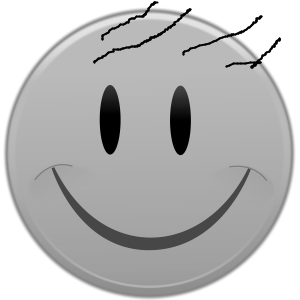
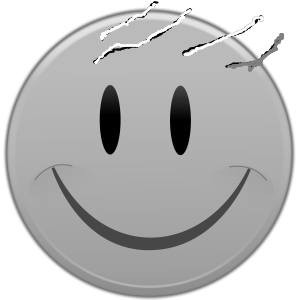
added another version of Malik-Perona method

diff --git a/scripts/restr_methods/Perona_Malik.py b/scripts/restr_methods/Perona_Malik.py
@@ -1,5 +1,7 @@
 import numpy as np
 from scipy import ndimage
+
+
 def Perona_Malik(im, dd, delta, kappa):
     windows = [
         np.array([[0, 1, 0],
@@ -27,19 +29,46 @@ def Perona_Malik(im, dd, delta, kappa):
                   [0, -1, 0],
                   [0, 0, 0]])]
 
-    # approximate gradients
     nab = [ndimage.filters.convolve(im, w) for w in windows]
-
-    # approximate diffusion function
-    diff = [1 / (1 + (n / kappa) ** 2) for n in nab]
-
-    # update image
-    terms = [diff[i] * nab[i] for i in range(4)]
-    terms += [(1 / (dd ** 2)) * diff[i] * nab[i] for i in range(4, 8)]
-    im = im + delta * (sum(terms))
+    gpm1 = [1 / (1 + (n / kappa) ** 2) for n in nab]
+    res = [gpm1[i] * nab[i] for i in range(8)]
+    im = im + delta * (sum(res))
 
     return im
 
+def Perona_Malik_2(im, dd, delta, kappa):
+    windows = [
+        np.array([[0, 1, 0],
+                  [0, -1, 0],
+                  [0, 0, 0]]),
+        np.array([[0, 0, 0],
+                  [0, -1, 0],
+                  [0, 1, 0]]),
+        np.array([[0, 0, 0],
+                  [0, -1, 1],
+                  [0, 0, 0]]),
+        np.array([[0, 0, 0],
+                  [1, -1, 0],
+                  [0, 0, 0]]),
+        np.array([[0, 0, 1],
+                  [0, -1, 0],
+                  [0, 0, 0]]),
+        np.array([[0, 0, 0],
+                  [0, -1, 0],
+                  [0, 0, 1]]),
+        np.array([[0, 0, 0],
+                  [0, -1, 0],
+                  [1, 0, 0]]),
+        np.array([[1, 0, 0],
+                  [0, -1, 0],
+                  [0, 0, 0]])]
+
+    nab = [ndimage.filters.convolve(im, w) for w in windows]
+    gpm2 = [np.exp(-(n/kappa)**2) for n in nab]
+    res = [gpm2[i] * nab[i] for i in range(8)]
+    im = im + delta*(sum(res))
+
+    return im
 
 
 

diff --git a/main.py b/main.py
@@ -49,7 +49,8 @@ class ExampleApp(QMainWindow, design.Ui_MainWindow):
                                 'Diffusion',
                                 'Diffusion_f',
                                 'Diffusion_c',
-                                'Perona_Malik'])
+                                'Perona_Malik',
+                                'Perona_Malik_2'])
         self.pushButton.clicked.connect(self.restore_image)
         self.pushButton_2.clicked.connect(self.save_image)
         self.spinBox.setMaximum(1000)
@@ -87,7 +88,9 @@ class ExampleApp(QMainWindow, design.Ui_MainWindow):
 
     def save_image(self):
         save_name, _ = QFileDialog.getSaveFileName(self, 'Save Image')
-        cv2.imwrite(save_name, self.image_restored)
+        if save_name:
+            cv2.imwrite(save_name, self.image_restored)
+        self.show()
 
     def load_image(self):
         self.progressBar.setValue(0)

diff --git a/image_restorer.py b/image_restorer.py
@@ -101,5 +101,12 @@ def restore(image, method):
         kappa = 15
         ima = Perona_Malik(image, dd, delta, kappa)
 
+    elif method == 'Perona_Malik_2':
+
+        dd = np.sqrt(2)
+        delta = 0.14
+        kappa = 15
+        ima = Perona_Malik_2(image, dd, delta, kappa)
+
     return ima
 
